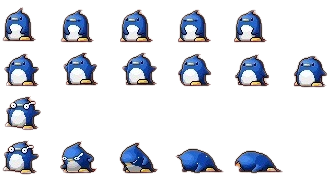
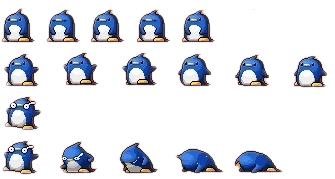
add monsters

Changed region(s): [[0.0, 0.0279, 0.6567, 0.2514], [0.6866, 0.0559, 0.806, 0.2514]]

diff --git a/oop2_proj/src/FileManager.cpp b/oop2_proj/src/FileManager.cpp
@@ -66,30 +66,32 @@ void FileManager::loadStaticObj()
 	m_dec.loadFromFile("staticDec.png");
 
 	loadStaticObjRect();
-	//m_dec[LEVEL1][FLOOR_C] = m_dec[LEVEL1][FLOOR_C].copyToImage();
-
-	//m_dec[LEVEL1][FLOOR].loadFromFile("ForsetFloor.png");
-	/*m_dec[LEVEL2][FLOOR].loadFromFile("DesertFloor.png");
-	m_dec[LEVEL3][FLOOR].loadFromFile("SnowFloor.png");*/
 }
 
 //--------------------------------------------------
 // load all the rect of the static decoration un the game
 void FileManager::loadStaticObjRect()
 {
-	m_decRect[LEVEL1][L_FLOOR] = LEFT_FLOOR_L1;
-	m_decRect[LEVEL1][M_FLOOR] = MIDDLE_FLOOR_L1;
-	m_decRect[LEVEL1][R_FLOOR] = RIGHT_FLOOR_L1;
-	m_decRect[LEVEL1][F_TREE] = FIRST_TREE_L1;
-	m_decRect[LEVEL1][S_TREE] = SECOUND_TREE_L1;
-	m_decRect[LEVEL1][ROCK] = ROCK_L1;
+	//m_decRect[LEVEL1][L_FLOOR] = LEFT_FLOOR_L1;
+	//m_decRect[LEVEL1][M_FLOOR] = MIDDLE_FLOOR_L1;
+	//m_decRect[LEVEL1][R_FLOOR] = RIGHT_FLOOR_L1;
+	//m_decRect[LEVEL1][F_TREE] = FIRST_TREE_L1;
+	//m_decRect[LEVEL1][S_TREE] = SECOUND_TREE_L1;
+	//m_decRect[LEVEL1][ROCK] = ROCK_L1;
 
-	m_decRect[LEVEL2][L_FLOOR] = LEFT_FLOOR_L2;
-	m_decRect[LEVEL2][M_FLOOR] = MIDDLE_FLOOR_L2;
-	m_decRect[LEVEL2][R_FLOOR] = RIGHT_FLOOR_L2;
-	m_decRect[LEVEL2][F_TREE] = FIRST_TREE_L2;
-	m_decRect[LEVEL2][S_TREE] = SECOUND_TREE_L2;
-	m_decRect[LEVEL2][ROCK] = ROCK_L2;
+	//m_decRect[LEVEL2][L_FLOOR] = LEFT_FLOOR_L2;
+	//m_decRect[LEVEL2][M_FLOOR] = MIDDLE_FLOOR_L2;
+	//m_decRect[LEVEL2][R_FLOOR] = RIGHT_FLOOR_L2;
+	//m_decRect[LEVEL2][F_TREE] = FIRST_TREE_L2;
+	//m_decRect[LEVEL2][S_TREE] = SECOUND_TREE_L2;
+	//m_decRect[LEVEL2][ROCK] = ROCK_L2;
+
+	m_decRect[LEVEL1][L_FLOOR] = LEFT_FLOOR_L2;
+	m_decRect[LEVEL1][M_FLOOR] = MIDDLE_FLOOR_L2;
+	m_decRect[LEVEL1][R_FLOOR] = RIGHT_FLOOR_L2;
+	m_decRect[LEVEL1][F_TREE] = FIRST_TREE_L2;
+	m_decRect[LEVEL1][S_TREE] = SECOUND_TREE_L2;
+	m_decRect[LEVEL1][ROCK] = ROCK_L2;
 
 	m_decRect[LEVEL3][L_FLOOR] = LEFT_FLOOR_L3;
 	m_decRect[LEVEL3][M_FLOOR] = MIDDLE_FLOOR_L3;
@@ -149,8 +151,8 @@ void FileManager::loadResetIcon()
 void FileManager::loadBackgrounds()
 {
 	m_backgrounds[MENU_BACKGROUND].loadFromFile("menuBackground.png");
-	m_backgrounds[LEVEL1_BACKGROUND].loadFromFile("gameBackground.png");
 	m_backgrounds[LEVEL2_BACKGROUND].loadFromFile("gameBackground.png");
+	m_backgrounds[LEVEL1_BACKGROUND].loadFromFile("snowBackground.png");
 	m_backgrounds[LEVEL3_BACKGROUND].loadFromFile("gameBackground.png");
 	m_backgrounds[HELP_BACKGROUND].loadFromFile("helpBackground.png");
 	m_backgrounds[WIN_LEVEL_BACKGROUND].loadFromFile("winLevelBackground.png");
@@ -242,7 +244,7 @@ const AnimationData& FileManager::getStaticData(icons object)
 
 const AnimationData& FileManager::getMonstersData(levels lev,icons object)
 {
-	return m_monsterData[lev][object];
+	return m_monsterData[lev-1][object];
 }
 //------------------------------------------------------------------
 
@@ -341,6 +343,106 @@ void FileManager::createPlayerAnimeData()
 //--------------------------- monstersAnime ----------------------------
 //Set the monsters animations.
 
+void FileManager::createForestMonstersAnimeData()
+{
+
+	setCurrentData(m_monsterData[LEVEL1][MONSTER1], Stay, movableAnimationSet
+	({ 178, 55 }, { 1, 1 }, 3, Stay), 0.01f, false);
+
+	/*setCurrentData(m_monsterData[LEVEL1][MONSTER1], Right, movableAnimationSet
+	({ 240, 115 }, { 480, 5 }, 2, Right), 0.01f, false);*/
+
+	// 
+	//setCurrentData(m_monsterData[LEVEL1][MONSTER1], Operation::Hurt, movableAnimationSet
+	//({ 37, 36 }, { 0, 405 }, { 0, 0 }, 8,
+	//	Operation::Hurt), 0.05f, true);
+
+	//setCurrentData(m_monsterData[LEVEL1][MONSTER1], Operation::Dead, movableAnimationSet
+	//({ 50, 30 }, { 0, 443 }, { 0, 0 }, 5,
+	//	Operation::Dead), 0.15f, true);
+
+	setCurrentData(m_monsterData[LEVEL1][MONSTER2], Stay, movableAnimationSet
+	({ 355, 90 }, { 1, 1 }, 4, Stay), 0.01f, false);
+
+	/*setCurrentData(m_monsterData[LEVEL1][MONSTER2], Right, movableAnimationSet
+	({ 240, 115 }, { 480, 5 }, 2, Right), 0.01f, false);*/
+
+	// 
+	//setCurrentData(m_monsterData[LEVEL1][MONSTER2], Operation::Hurt, movableAnimationSet
+	//({ 37, 36 }, { 0, 405 }, { 0, 0 }, 8,
+	//	Operation::Hurt), 0.05f, true);
+
+	//setCurrentData(m_monsterData[LEVEL1][MONSTER2], Operation::Dead, movableAnimationSet
+	//({ 50, 30 }, { 0, 443 }, { 0, 0 }, 5,
+	//	Operation::Dead), 0.15f, true);
+
+	setCurrentData(m_monsterData[LEVEL1][MONSTER3], Stay, movableAnimationSet
+	({ 297, 65 }, { 9, 6 }, 3, Stay), 0.02f, false);
+
+	/*
+	setCurrentData(m_monsterData[LEVEL1][MONSTER3], Right, movableAnimationSet
+	({ 240, 115 }, { 480, 5 }, 2, Right), 0.01f, false);*/
+
+	// 
+	//setCurrentData(m_monsterData[LEVEL1][MONSTER3], Operation::Hurt, movableAnimationSet
+	//({ 37, 36 }, { 0, 405 }, { 0, 0 }, 8,
+	//	Operation::Hurt), 0.05f, true);
+
+	//setCurrentData(m_monsterData[LEVEL1][MONSTER3], Operation::Dead, movableAnimationSet
+	//({ 50, 30 }, { 0, 443 }, { 0, 0 }, 5,
+	//	Operation::Dead), 0.15f, true);
+}
+//----------------------------------------------------
+
+void FileManager::createSnowMonstersAnimeData()
+{
+	setCurrentData(m_monsterData[LEVEL2][MONSTER1], Stay, movableAnimationSet
+	({ 225, 35 }, { 1, 6 },5, Stay), 0.01f, false);
+
+	//setCurrentData(m_monsterData[LEVEL2][MONSTER1], Right, movableAnimationSet
+	//({ 240, 115 }, { 480, 5 }, 2, Right), 0.01f, false);
+
+	// 
+	//setCurrentData(m_monsterData[LEVEL2][MONSTER1], Operation::Hurt, movableAnimationSet
+	//({ 37, 36 }, { 0, 405 }, { 0, 0 }, 8,
+	//	Operation::Hurt), 0.05f, true);
+
+	//setCurrentData(m_monsterData[LEVEL2][MONSTER1], Operation::Dead, movableAnimationSet
+	//({ 50, 30 }, { 0, 443 }, { 0, 0 }, 5,
+	//	Operation::Dead), 0.15f, true);
+
+	/*setCurrentData(m_monsterData[LEVEL2][MONSTER2], Stay, movableAnimationSet
+	({ 110, 115 }, { 730, 5 }, 1, Stay), 0.2f, false);
+
+	setCurrentData(m_monsterData[LEVEL2][MONSTER2], Right, movableAnimationSet
+	({ 240, 115 }, { 480, 5 }, 2, Right), 0.01f, false);*/
+
+	// 
+	//setCurrentData(m_monsterData[LEVEL2][MONSTER2], Operation::Hurt, movableAnimationSet
+	//({ 37, 36 }, { 0, 405 }, { 0, 0 }, 8,
+	//	Operation::Hurt), 0.05f, true);
+
+	//setCurrentData(m_monsterData[LEVEL2][MONSTER2], Operation::Dead, movableAnimationSet
+	//({ 50, 30 }, { 0, 443 }, { 0, 0 }, 5,
+	//	Operation::Dead), 0.15f, true);
+
+	//setCurrentData(m_monsterData[LEVEL2][MONSTER3], Stay, movableAnimationSet
+	//({ 110, 115 }, { 730, 5 }, 1, Stay), 0.2f, false);
+
+	//setCurrentData(m_monsterData[LEVEL2][MONSTER3], Right, movableAnimationSet
+	//({ 240, 115 }, { 480, 5 }, 2, Right), 0.01f, false);
+
+	// 
+	//setCurrentData(m_monsterData[LEVEL2][MONSTER3], Operation::Hurt, movableAnimationSet
+	//({ 37, 36 }, { 0, 405 }, { 0, 0 }, 8,
+	//	Operation::Hurt), 0.05f, true);
+
+	//setCurrentData(m_monsterData[LEVEL2][MONSTER3], Operation::Dead, movableAnimationSet
+	//({ 50, 30 }, { 0, 443 }, { 0, 0 }, 5,
+	//	Operation::Dead), 0.15f, true);
+}
+//----------------------------------------------------
+
 void FileManager::createDesertMonstersAnimeData()
 {
 	/*setCurrentData(m_monsterData[LEVEL3][MONSTER1], Stay, movableAnimationSet
@@ -388,102 +490,4 @@ void FileManager::createDesertMonstersAnimeData()
 	//({ 50, 30 }, { 0, 443 }, { 0, 0 }, 5,
 	//	Operation::Dead), 0.15f, true);
 }
-//----------------------------------------------------
 
-void FileManager::createSnowMonstersAnimeData()
-{
-	//setCurrentData(m_monsterData[LEVEL2][MONSTER1], Stay, movableAnimationSet
-	//({ 110, 115 }, { 730, 5 }, 1, Stay), 0.2f, false);
-
-	//setCurrentData(m_monsterData[LEVEL2][MONSTER1], Right, movableAnimationSet
-	//({ 240, 115 }, { 480, 5 }, 2, Right), 0.01f, false);
-
-	// 
-	//setCurrentData(m_monsterData[LEVEL2][MONSTER1], Operation::Hurt, movableAnimationSet
-	//({ 37, 36 }, { 0, 405 }, { 0, 0 }, 8,
-	//	Operation::Hurt), 0.05f, true);
-
-	//setCurrentData(m_monsterData[LEVEL2][MONSTER1], Operation::Dead, movableAnimationSet
-	//({ 50, 30 }, { 0, 443 }, { 0, 0 }, 5,
-	//	Operation::Dead), 0.15f, true);
-
-	/*setCurrentData(m_monsterData[LEVEL2][MONSTER2], Stay, movableAnimationSet
-	({ 110, 115 }, { 730, 5 }, 1, Stay), 0.2f, false);
-
-	setCurrentData(m_monsterData[LEVEL2][MONSTER2], Right, movableAnimationSet
-	({ 240, 115 }, { 480, 5 }, 2, Right), 0.01f, false);*/
-
-	// 
-	//setCurrentData(m_monsterData[LEVEL2][MONSTER2], Operation::Hurt, movableAnimationSet
-	//({ 37, 36 }, { 0, 405 }, { 0, 0 }, 8,
-	//	Operation::Hurt), 0.05f, true);
-
-	//setCurrentData(m_monsterData[LEVEL2][MONSTER2], Operation::Dead, movableAnimationSet
-	//({ 50, 30 }, { 0, 443 }, { 0, 0 }, 5,
-	//	Operation::Dead), 0.15f, true);
-
-	//setCurrentData(m_monsterData[LEVEL2][MONSTER3], Stay, movableAnimationSet
-	//({ 110, 115 }, { 730, 5 }, 1, Stay), 0.2f, false);
-
-	//setCurrentData(m_monsterData[LEVEL2][MONSTER3], Right, movableAnimationSet
-	//({ 240, 115 }, { 480, 5 }, 2, Right), 0.01f, false);
-
-	// 
-	//setCurrentData(m_monsterData[LEVEL2][MONSTER3], Operation::Hurt, movableAnimationSet
-	//({ 37, 36 }, { 0, 405 }, { 0, 0 }, 8,
-	//	Operation::Hurt), 0.05f, true);
-
-	//setCurrentData(m_monsterData[LEVEL2][MONSTER3], Operation::Dead, movableAnimationSet
-	//({ 50, 30 }, { 0, 443 }, { 0, 0 }, 5,
-	//	Operation::Dead), 0.15f, true);
-}
-//----------------------------------------------------
-
-void FileManager::createForestMonstersAnimeData()
-{
-
-	setCurrentData(m_monsterData[LEVEL1] [MONSTER1] , Stay, movableAnimationSet
-	({ 175, 55 }, { 1, 1 }, 3, Stay), 0.01f, false);
-
-	/*setCurrentData(m_monsterData[LEVEL1][MONSTER1], Right, movableAnimationSet
-	({ 240, 115 }, { 480, 5 }, 2, Right), 0.01f, false);*/
-
-	// 
-	//setCurrentData(m_monsterData[LEVEL1][MONSTER1], Operation::Hurt, movableAnimationSet
-	//({ 37, 36 }, { 0, 405 }, { 0, 0 }, 8,
-	//	Operation::Hurt), 0.05f, true);
-
-	//setCurrentData(m_monsterData[LEVEL1][MONSTER1], Operation::Dead, movableAnimationSet
-	//({ 50, 30 }, { 0, 443 }, { 0, 0 }, 5,
-	//	Operation::Dead), 0.15f, true);
-
-	/*setCurrentData(m_monsterData[LEVEL1][MONSTER2], Stay, movableAnimationSet
-	({ 110, 115 }, { 730, 5 }, 1, Stay), 0.2f, false);
-
-	setCurrentData(m_monsterData[LEVEL1][MONSTER2], Right, movableAnimationSet
-	({ 240, 115 }, { 480, 5 }, 2, Right), 0.01f, false);*/
-
-	// 
-	//setCurrentData(m_monsterData[LEVEL1][MONSTER2], Operation::Hurt, movableAnimationSet
-	//({ 37, 36 }, { 0, 405 }, { 0, 0 }, 8,
-	//	Operation::Hurt), 0.05f, true);
-
-	//setCurrentData(m_monsterData[LEVEL1][MONSTER2], Operation::Dead, movableAnimationSet
-	//({ 50, 30 }, { 0, 443 }, { 0, 0 }, 5,
-	//	Operation::Dead), 0.15f, true);
-
-	/*setCurrentData(m_monsterData[LEVEL1][MONSTER3], Stay, movableAnimationSet
-	({ 110, 115 }, { 730, 5 }, 1, Stay), 0.2f, false);
-
-	setCurrentData(m_monsterData[LEVEL1][MONSTER3], Right, movableAnimationSet
-	({ 240, 115 }, { 480, 5 }, 2, Right), 0.01f, false);*/
-
-	// 
-	//setCurrentData(m_monsterData[LEVEL1][MONSTER3], Operation::Hurt, movableAnimationSet
-	//({ 37, 36 }, { 0, 405 }, { 0, 0 }, 8,
-	//	Operation::Hurt), 0.05f, true);
-
-	//setCurrentData(m_monsterData[LEVEL1][MONSTER3], Operation::Dead, movableAnimationSet
-	//({ 50, 30 }, { 0, 443 }, { 0, 0 }, 5,
-	//	Operation::Dead), 0.15f, true);
-}

diff --git a/oop2_proj/include/FileManager.h b/oop2_proj/include/FileManager.h
@@ -35,7 +35,6 @@ private:
 	FileManager(const FileManager&) = default;
 	FileManager& operator=(const FileManager&) = default;
 
-
 	void loadMovingObj();
 	void loadStaticObj();
 	void loadStaticObjRect();
@@ -46,38 +45,29 @@ private:
 	void loadBackgrounds();
 	void loadBackgroundIcons();
 
-
 	void setAnimationsData();
 	void createPlayerAnimeData();
 	void createDesertMonstersAnimeData();
 	void createSnowMonstersAnimeData();
 	void createForestMonstersAnimeData();
 
-
 	void setCurrentData(AnimationData& , Operation ,std::vector<sf::IntRect> , float , bool );
-	std::vector<sf::IntRect> movableAnimationSet(const sf::Vector2i ,
-		const sf::Vector2i ,const int , Operation);
-	AnimationData createStaticAnimationData(const sf::Vector2i,const sf::Vector2i ,const int );
+	std::vector<sf::IntRect> movableAnimationSet(const sf::Vector2i ,const sf::Vector2i ,const int , Operation);
 
-
-	//sf::Texture m_icons[NUM_OF_STATIC_ICONS];
-	//sf::Texture m_staticIcon[NUM_OF_STATIC_ICONS];
 	sf::Texture m_monstersIcon[NUM_OF_LEVELS][NUM_OF_MONSTERS];
 	sf::Texture m_player;
-	//sf::Texture m_dec1[NUM_OF_LEVELS][NUM_OF_DEC];
 	sf::Texture m_sharedStaticIcon[NUM_OF_DEC];
 	sf::Texture m_dec;
 	sf::IntRect m_decRect[NUM_OF_LEVELS][NUM_OF_DEC];
-
 	sf::Texture m_backgrounds[NUM_OF_BACKGROUNDS];
 	sf::Texture m_backgroundIcons[NUM_OF_BACKGROUNDSICONS];
-
 	sf::Texture m_musicTexture[2];
 	sf::Texture m_playStopTexture[2];
 	sf::Texture m_restartIcon;
 
 	sf::SoundBuffer m_audio[NUM_OF_SOUNDS];
 	sf::Font m_font;
+
 	AnimationData m_staticData[NUM_OF_DEC];
 	AnimationData m_playerData;
 	AnimationData m_monsterData[NUM_OF_LEVELS][NUM_OF_MONSTERS];

diff --git a/oop2_proj/src/DataBase.cpp b/oop2_proj/src/DataBase.cpp
@@ -44,9 +44,18 @@ void DataBase::createMovingObj(const char c, const sf::Vector2f& pos)
 	case PLAYER_C:
 		m_player = std::make_unique<Player>(pos+sf::Vector2f(0,20));
 		break;
-	//case  MONSTER1_C:
-		//m_monsters.push_back(std::make_unique<Monster>(pos, levels(m_currLevel),
-		//	MONSTER1, sf::Vector2f(BLOCK_SIZE / 2, BLOCK_SIZE / 1.5)));
+	case  MONSTER1_C:
+		m_monsters.push_back(std::make_unique<Monster>(pos + sf::Vector2f(0, 22), levels(m_currLevel+1),
+			MONSTER1, sf::Vector2f(BLOCK_SIZE/1.2 , BLOCK_SIZE/1.2 )));
+		break;
+	case  MONSTER2_C:
+		m_monsters.push_back(std::make_unique<Monster>(pos + sf::Vector2f(0, 22), levels(m_currLevel),
+			MONSTER2, sf::Vector2f(BLOCK_SIZE , BLOCK_SIZE)));
+		break;
+	case  MONSTER3_C:
+		m_monsters.push_back(std::make_unique<Monster>(pos + sf::Vector2f(0, 22), levels(m_currLevel),
+			MONSTER3, sf::Vector2f(BLOCK_SIZE, BLOCK_SIZE)));
+		break;
 	}
 }
 //-----------------------------------------------
@@ -135,7 +144,7 @@ void DataBase::drawMovingObj(sf::RenderWindow& window)
 	sf::Time delta_time = m_clock.restart();
 	for (auto& e : m_monsters)
 	{
-		//e->update(delta_time);
+		e->update(delta_time);
 		e->draw(window);
 	}
 	if (m_player)

diff --git a/oop2_proj/include/macros.h b/oop2_proj/include/macros.h
@@ -156,7 +156,7 @@ LEFT_FLOOR_L3(342, 322, 58, 50),
 MIDDLE_FLOOR_L3(408, 322, 52, 49),
 RIGHT_FLOOR_L3(475, 322, 54, 50),
 
-FIRST_TREE_L1(10, 11, 108, 88),
+FIRST_TREE_L1(10, 11, 100, 88),
 SECOUND_TREE_L1(116, 38, 77, 71),
 ROCK_L1(200, 81, 80, 48),
 
